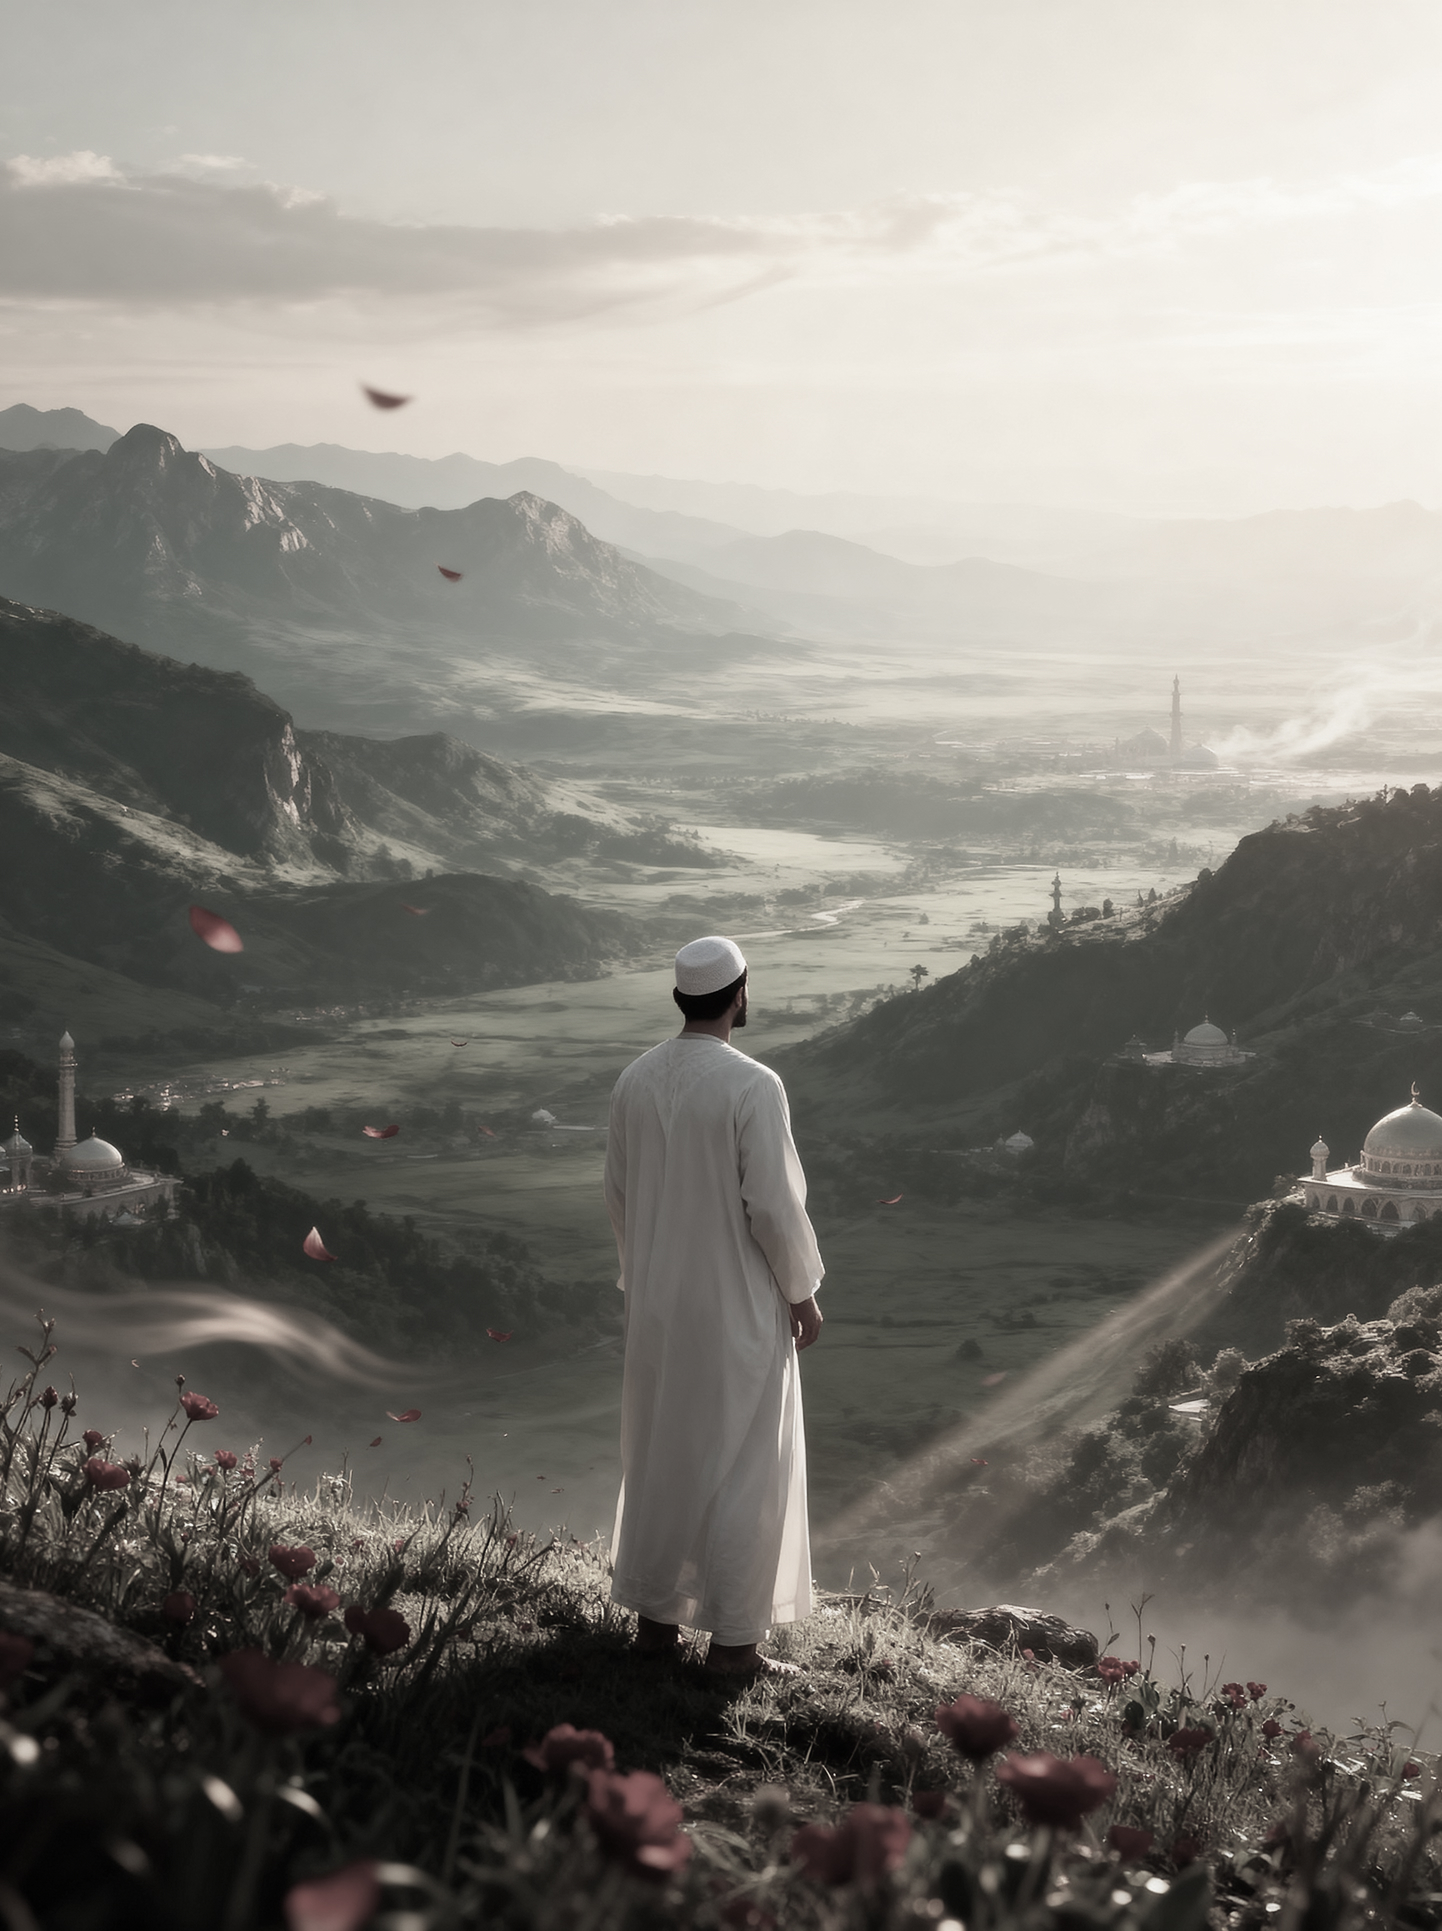
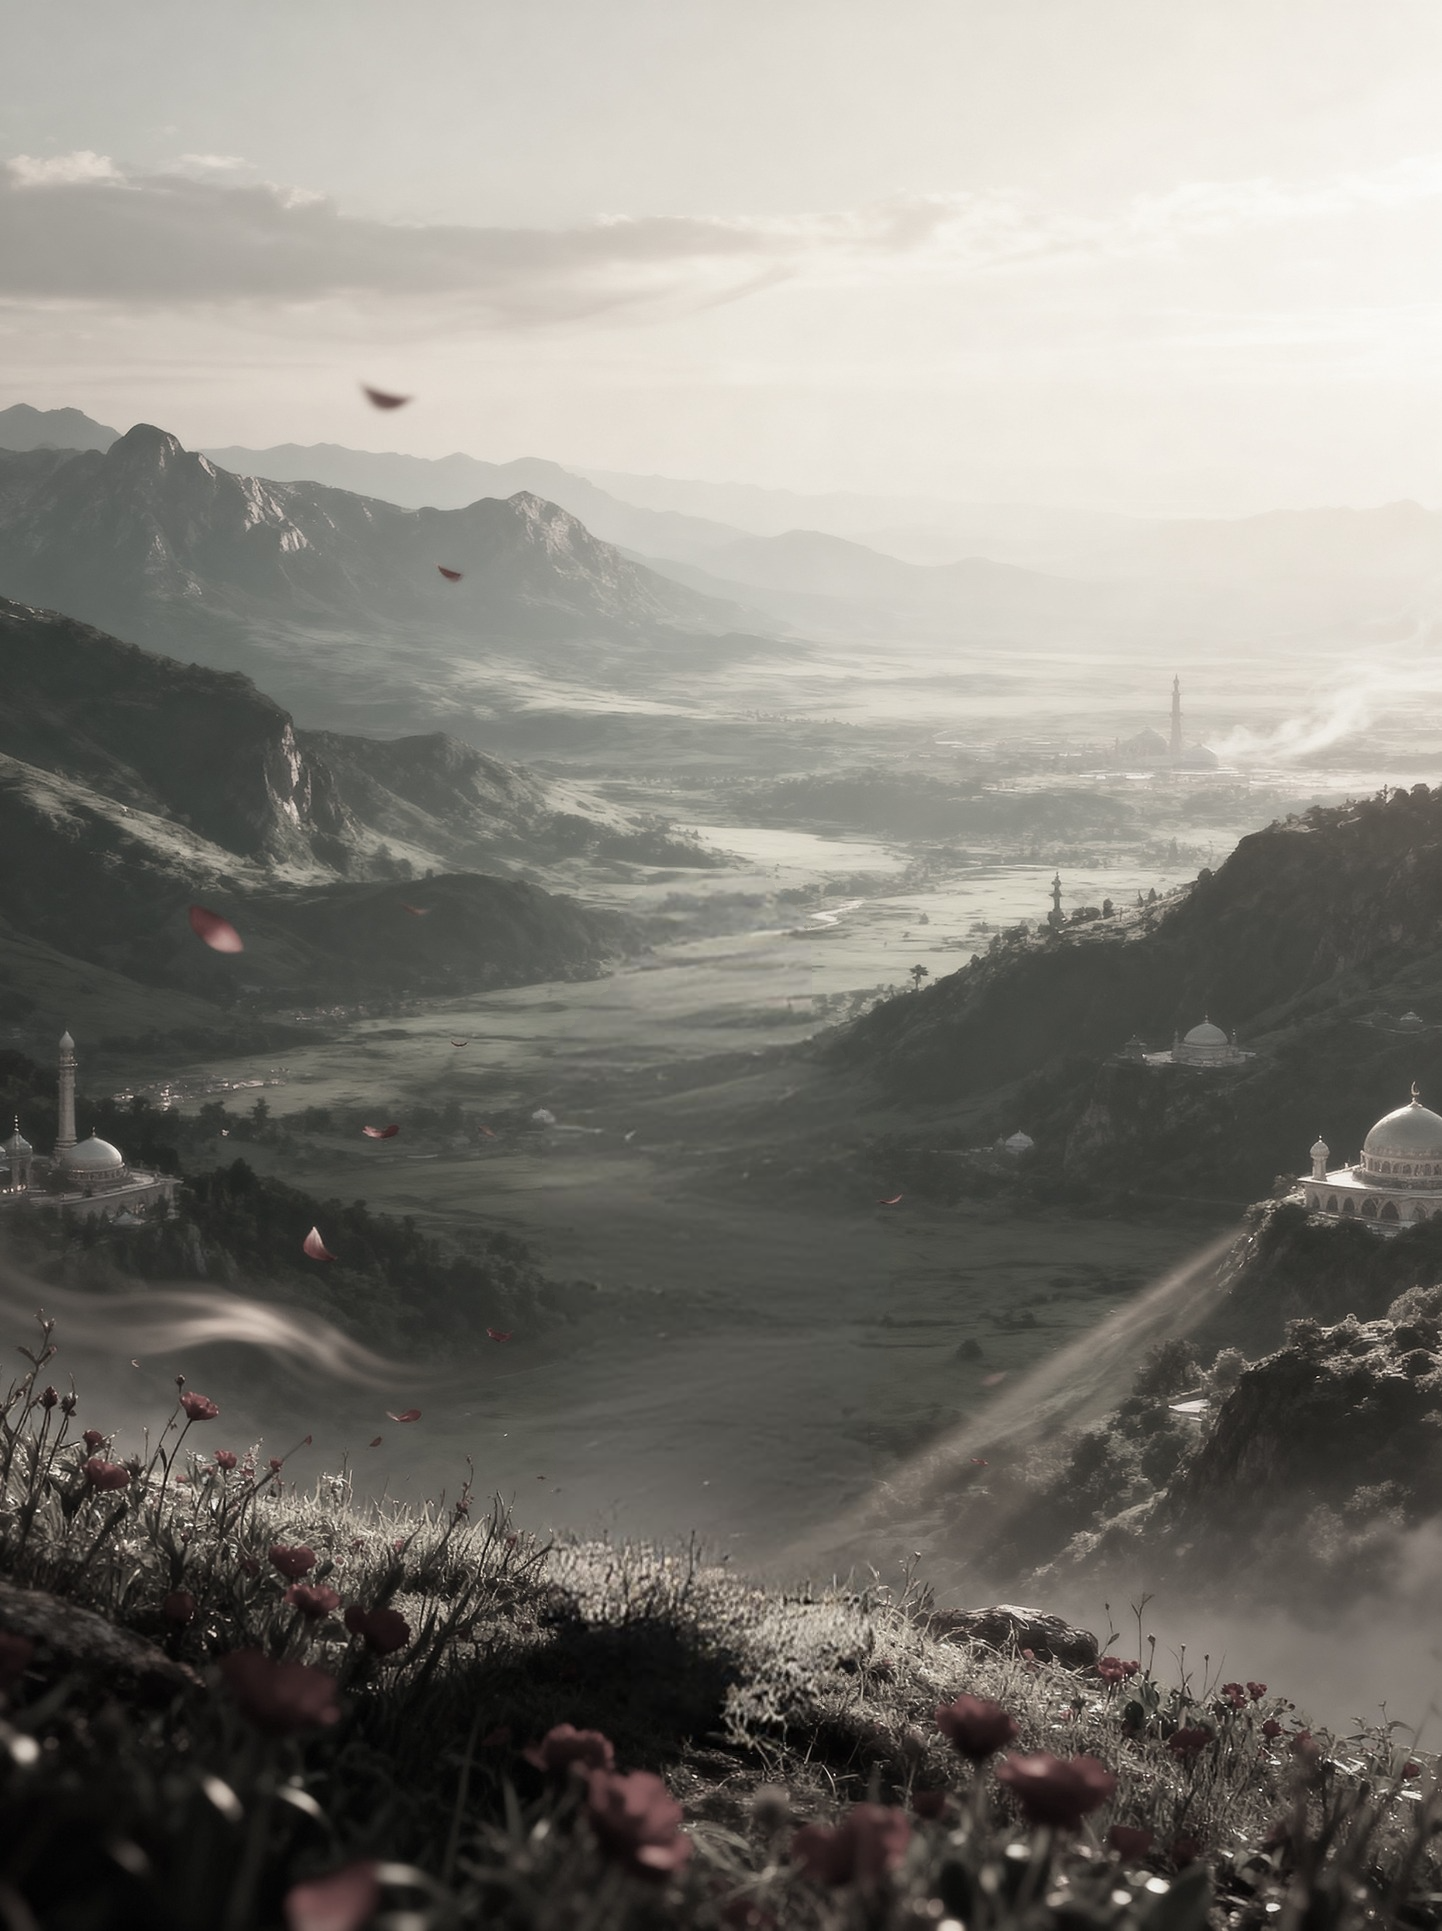
about-us page updates
- Remove human from bg image
- Remove Certificate

Changed region(s): [[0.3745, 0.4661, 0.6241, 0.9011]]

diff --git a/src/app/[locale]/(defaultLayout)/about/page.tsx b/src/app/[locale]/(defaultLayout)/about/page.tsx
@@ -282,61 +282,6 @@ export default async function AboutPage({
             </div>
           </div>
 
-          {/* Nonprofit Certificate */}
-          <div className="bg-muted rounded-3xl p-8">
-            <div className="flex flex-col gap-8 lg:flex-row lg:items-center lg:justify-between">
-              <div className="flex items-center gap-4">
-                <Image
-                  src={certificateImage.src}
-                  alt={t("nonprofit.imageAlt")}
-                  width={512}
-                  height={512}
-                  className="size-16 dark:invert"
-                />
-                <div className="flex flex-col">
-                  <h2 className="text-3xl font-bold">{t("nonprofit.title")}</h2>
-                  <p className="text-muted-foreground mt-2">
-                    {t("nonprofit.status")}
-                  </p>
-                </div>
-              </div>
-              <div className="grid grid-cols-2 gap-6 lg:grid-cols-4">
-                <div className="flex flex-col">
-                  <h4 className="text-xl font-bold">
-                    {t("nonprofit.location")}
-                  </h4>
-                  <p className="text-muted-foreground mt-1">
-                    {t("nonprofit.locationLabel")}
-                  </p>
-                </div>
-                <div className="flex flex-col">
-                  <h4 className="text-xl font-bold">
-                    {t("nonprofit.yearFounded")}
-                  </h4>
-                  <p className="text-muted-foreground mt-1">
-                    {t("nonprofit.yearFoundedLabel")}
-                  </p>
-                </div>
-                <div className="flex flex-col">
-                  <h4 className="text-xl font-bold">
-                    {t("nonprofit.teamMembers")}
-                  </h4>
-                  <p className="text-muted-foreground mt-1">
-                    {t("nonprofit.teamMembersLabel")}
-                  </p>
-                </div>
-                <div className="flex flex-col">
-                  <h4 className="text-xl font-bold">
-                    {t("nonprofit.totalFunding")}
-                  </h4>
-                  <p className="text-muted-foreground mt-1">
-                    {t("nonprofit.totalFundingLabel")}
-                  </p>
-                </div>
-              </div>
-            </div>
-          </div>
-
           <div className="flex justify-center">
             <SupportUsForm />
           </div>
